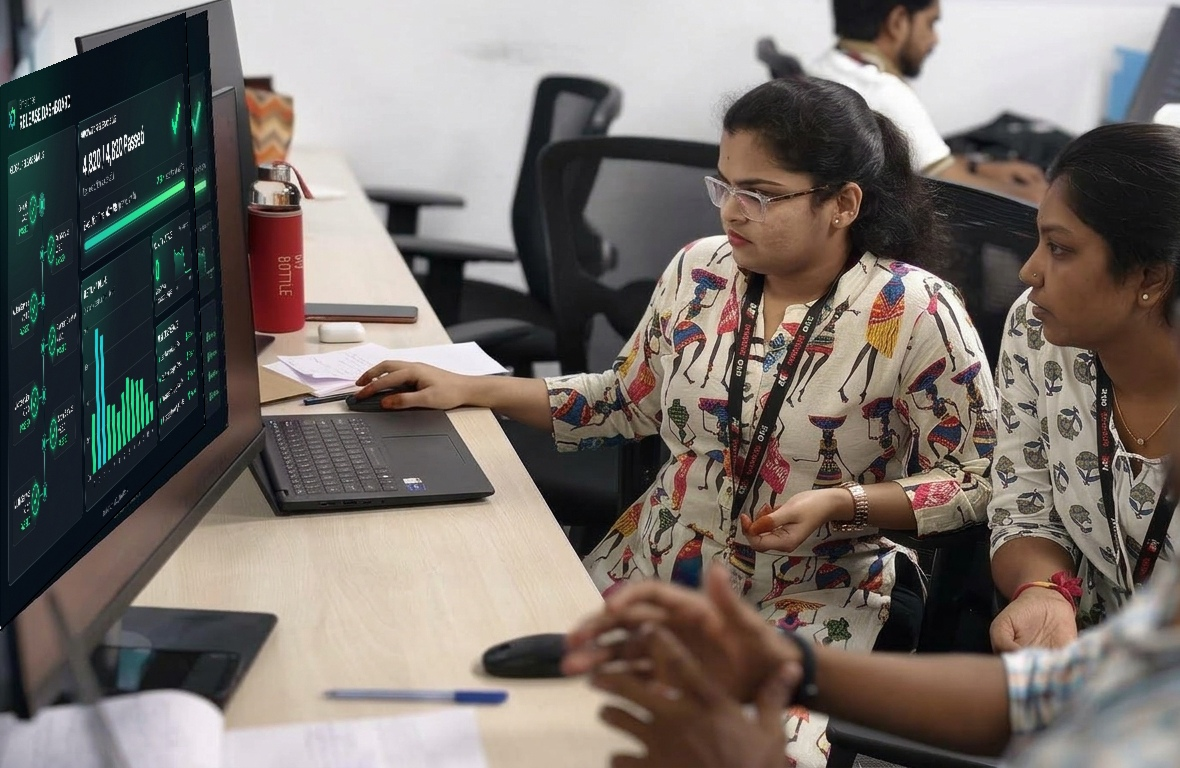
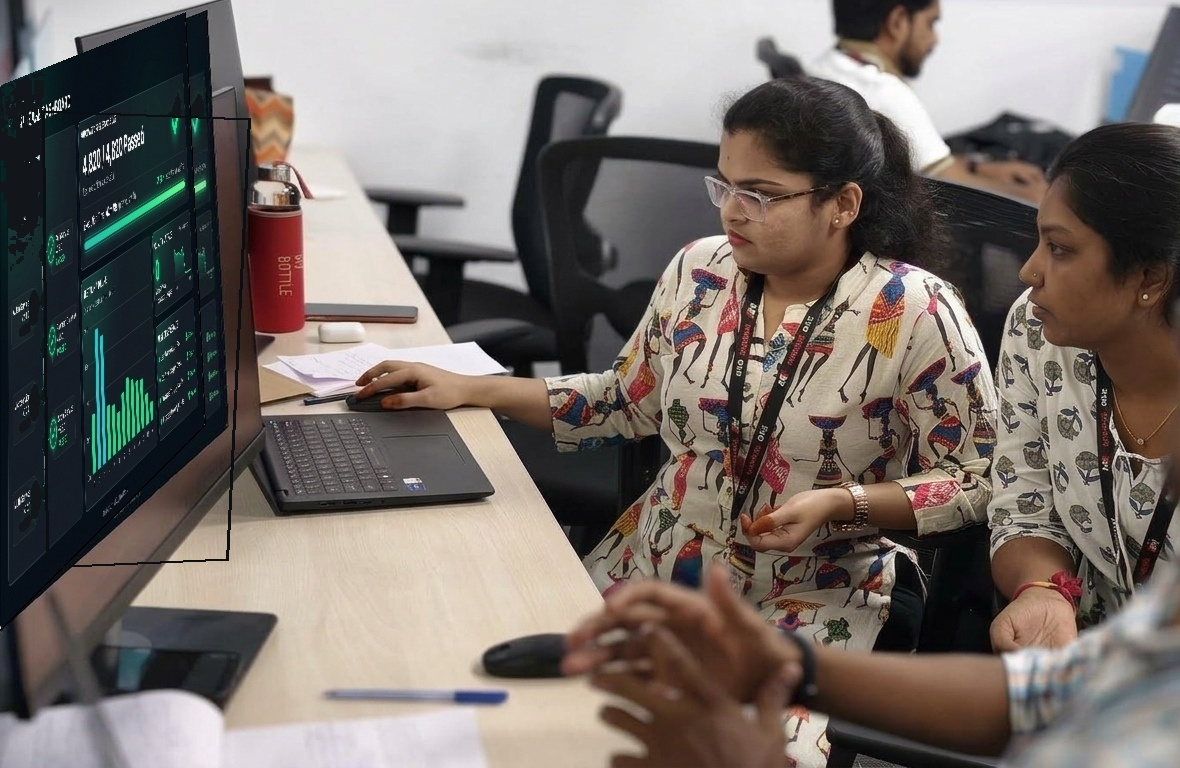
Replace unverified industry stats with honest positioning, remove unused images
The homepage industry cards claimed specific unverified metrics
(99.999% uptime, zero defect escapes, 10M+ concurrency, etc.) as fact.
Replaced with qualitative positioning that doesn't assert unsourced
numbers. Also removes unused duplicate team-photo files left over from
a prior rename, and includes small pending photo crop/frame tweaks.

diff --git a/app/page.tsx b/app/page.tsx
@@ -143,7 +143,7 @@ const FEATURED_INDUSTRIES = [
     title: "Telecommunications & 5G",
     tagline: "Empowering Connectivity, Edge Infrastructure & Subscriber Platforms",
     icon: SignalBarsIcon,
-    impact: "99.999% SLA Uptime",
+    impact: "Signature Domain Expertise",
     signature: true,
     capabilities: [
       "5G & Edge Infrastructure Modernization",
@@ -156,7 +156,7 @@ const FEATURED_INDUSTRIES = [
     title: "Banking & Financial Services",
     tagline: "Secure, High-Frequency & Regulatory Compliant Platforms",
     icon: BankIcon,
-    impact: "99.999% Reliability",
+    impact: "Regulatory-Grade Engineering",
     capabilities: [
       "Core Banking Modernization",
       "PCI-DSS / SOC2 Automation",
@@ -168,7 +168,7 @@ const FEATURED_INDUSTRIES = [
     title: "Automotive & Smart Mobility",
     tagline: "Connected Vehicle Intelligence & Predictive Telematics",
     icon: CarIcon,
-    impact: "Zero Defect Escapes",
+    impact: "Safety-Critical Validation",
     capabilities: [
       "ISO 26262 Safety Validation",
       "OTA Firmware Pipelines",
@@ -180,7 +180,7 @@ const FEATURED_INDUSTRIES = [
     title: "Retail & E-Commerce",
     tagline: "Omnichannel Scale & Peak Black Friday Resilience",
     icon: ShoppingBagIcon,
-    impact: "10M+ Peak Concurrency",
+    impact: "Built for Peak-Season Scale",
     capabilities: [
       "High-Concurrency Load Testing",
       "Headless Checkout QA",
@@ -192,7 +192,7 @@ const FEATURED_INDUSTRIES = [
     title: "Insurance & InsurTech",
     tagline: "Regulated Claims Automation & Policyholder Platforms",
     icon: ShieldCheckIcon,
-    impact: "60% Faster Approvals",
+    impact: "Automated Claims Workflows",
     capabilities: [
       "Guidewire & Policy Migrations",
       "Automated Claims Adjudication",
@@ -204,7 +204,7 @@ const FEATURED_INDUSTRIES = [
     title: "Digital Media & AdTech",
     tagline: "Programmatic Ad Tech, Streaming & Low-Latency Engines",
     icon: BroadcastIcon,
-    impact: "Sub-15ms Latency QA",
+    impact: "Low-Latency Engineering Focus",
     capabilities: [
       "High-Throughput RTB Pipelines",
       "Cross-Platform OTT & Mobile QA",
@@ -491,7 +491,7 @@ export default function Home() {
               alt="NForceOne engineering team reviewing automated regression suite & CI/CD release pipeline telemetry on screen"
               fill
               sizes="(max-width: 860px) 100vw, 40vw"
-              style={{ objectFit: "cover", objectPosition: "left center" }}
+              style={{ objectFit: "cover", objectPosition: "left top" }}
             />
             <div className={styles.spotlightTeamBadge}>
               <span className={styles.spotlightTeamDot} />

diff --git a/app/page.module.css b/app/page.module.css
@@ -1217,7 +1217,7 @@
 
 .spotlightImageFrame {
   position: relative;
-  height: 380px;
+  height: 410px;
   border-radius: 16px;
   overflow: hidden;
   box-shadow: 0 16px 40px rgba(0, 0, 0, 0.45);
